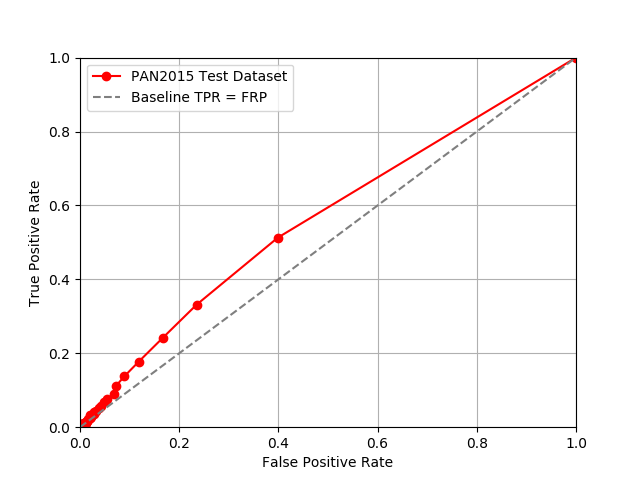
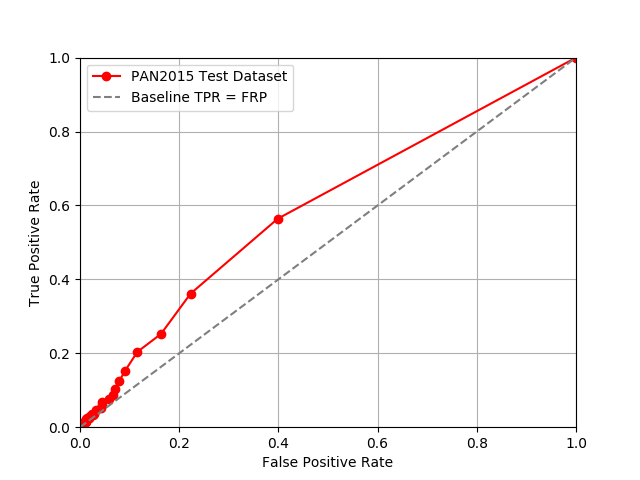
Fix PAN 2015 Delta method results
We had used the 300 most frequent words and not the 200 most frequent
words as we had found worked the best on the training dataset.

diff --git a/report/graph_generation/delta_method_roc.py b/report/graph_generation/delta_method_roc.py
@@ -3,42 +3,38 @@
 import matplotlib.pyplot as plt
 import numpy as np
 
-tprs = np.array([
-    1.0, 0.5128, 0.33159999999999995, 0.2414, 0.17679999999999998, 0.1376,
-    0.1118, 8.88e-2, 7.58e-2, 6.82e-2, 5.74e-2, 5.08e-2, 4.44e-2, 3.98e-2,
-    3.5e-2, 3.18e-2, 2.6600000000000002e-2, 2.3799999999999998e-2, 2.4e-2,
-    2.2799999999999997e-2, 1.92e-2, 1.6e-2, 1.4199999999999999e-2,
-    1.1200000000000002e-2, 1.24e-2, 1.34e-2, 1.08e-2, 1.06e-2,
-    1.1200000000000002e-2, 1.06e-2, 7.6e-3, 9.2e-3, 6.999999999999999e-3,
-    7.2e-3, 6.2e-3, 4.4e-3, 5.8e-3, 5.8e-3, 3.4000000000000002e-3,
-    5.600000000000001e-3, 4.6e-3, 4.2e-3, 4.4e-3, 3.6e-3, 3.2e-3, 4.0e-3,
-    2.4e-3, 1.6e-3, 2.8000000000000004e-3, 2.6e-3, 2.8000000000000004e-3,
-    2.0e-3, 1.8e-3, 3.4000000000000002e-3, 2.4e-3, 2.6e-3, 6.0e-4, 1.2e-3,
-    1.8e-3, 1.2e-3, 1.4000000000000002e-3, 1.8e-3, 2.2e-3,
-    1.4000000000000002e-3, 2.0e-3, 1.8e-3, 1.4000000000000002e-3,
-    1.4000000000000002e-3, 1.4000000000000002e-3, 1.0e-3,
-    1.4000000000000002e-3, 1.4000000000000002e-3, 1.6e-3, 1.0e-3, 1.2e-3,
-    1.4000000000000002e-3, 8.0e-4, 1.6e-3, 6.0e-4, 1.0e-3, 8.0e-4, 4.0e-4,
-    8.0e-4, 1.0e-3, 6.0e-4, 4.0e-4, 2.0e-4, 6.0e-4, 4.0e-4, 4.0e-4, 6.0e-4,
-    4.0e-4, 0.0, 4.0e-4, 1.4000000000000002e-3, 8.0e-4, 6.0e-4, 2.0e-4,
-    4.0e-4, 2.0e-4, 2.0e-4, 0.0])
-fprs = np.array([
-    1.0, 0.39880000000000004, 0.2352, 0.1666, 0.11800000000000001, 8.94e-2,
-    7.26e-2, 6.82e-2, 5.42e-2, 4.8799999999999996e-2, 4.18e-2, 3.9e-2,
-    3.32e-2, 2.78e-2, 2.76e-2, 1.9799999999999998e-2, 2.2799999999999997e-2,
-    2.0e-2, 2.02e-2, 1.68e-2, 1.54e-2, 1.3999999999999999e-2,
-    1.2199999999999999e-2, 1.3000000000000001e-2, 1.28e-2, 1.18e-2, 1.16e-2,
-    8.4e-3, 8.199999999999999e-3, 8.0e-3, 4.8e-3, 5.600000000000001e-3,
-    7.8000000000000005e-3, 6.6e-3, 5.0e-3, 5.600000000000001e-3,
-    3.4000000000000002e-3, 3.2e-3, 4.0e-3, 3.8e-3, 2.4e-3, 4.2e-3, 2.2e-3,
-    3.2e-3, 1.6e-3, 2.4e-3, 2.0e-3, 1.8e-3, 1.6e-3, 1.4000000000000002e-3,
-    8.0e-4, 1.8e-3, 2.0e-4, 1.8e-3, 6.0e-4, 2.0e-4, 1.0e-3, 1.0e-3,
-    1.4000000000000002e-3, 8.0e-4, 2.8000000000000004e-3, 1.8e-3,
-    1.4000000000000002e-3, 8.0e-4, 1.6e-3, 1.0e-3, 1.0e-3, 1.0e-3, 8.0e-4,
-    8.0e-4, 8.0e-4, 1.2e-3, 1.0e-3, 6.0e-4, 4.0e-4, 8.0e-4, 4.0e-4, 6.0e-4,
-    6.0e-4, 4.0e-4, 2.0e-4, 4.0e-4, 0.0, 0.0, 0.0, 1.4000000000000002e-3,
-    4.0e-4, 2.0e-4, 0.0, 0.0, 2.0e-4, 2.0e-4, 4.0e-4, 4.0e-4, 6.0e-4, 0.0,
-    2.0e-4, 2.0e-4, 4.0e-4, 0.0, 0.0, 0.0])
+tprs = np.array([1.0, 0.564, 0.36119999999999997, 0.2522, 0.204, 0.1534,
+    0.125, 0.10400000000000001, 8.74e-2, 7.62e-2, 6.84e-2,
+    6.1200000000000004e-2, 5.2199999999999996e-2, 4.6799999999999994e-2,
+    3.48e-2, 3.18e-2, 3.46e-2, 3.1200000000000002e-2, 2.56e-2,
+    2.3799999999999998e-2, 2.46e-2, 2.16e-2, 2.08e-2, 1.78e-2, 1.48e-2,
+    1.8600000000000002e-2, 1.24e-2, 1.2199999999999999e-2,
+    1.1000000000000001e-2, 1.06e-2, 9.8e-3, 8.4e-3, 1.26e-2, 1.04e-2, 8.0e-3,
+    7.4e-3, 6.999999999999999e-3, 6.6e-3, 6.8000000000000005e-3,
+    6.8000000000000005e-3, 7.4e-3, 6.8000000000000005e-3, 4.8e-3, 5.0e-3,
+    5.0e-3, 4.2e-3, 4.0e-3, 3.4000000000000002e-3, 4.4e-3, 3.8e-3, 3.0e-3,
+    4.6e-3, 2.0e-3, 3.0e-3, 1.4000000000000002e-3, 3.6e-3, 4.2e-3, 2.2e-3,
+    2.4e-3, 2.8000000000000004e-3, 4.6e-3, 3.2e-3, 2.0e-3, 2.4e-3, 3.0e-3,
+    2.4e-3, 3.2e-3, 2.6e-3, 2.6e-3, 2.6e-3, 1.6e-3, 3.6e-3,
+    2.8000000000000004e-3, 1.6e-3, 1.6e-3, 2.2e-3, 1.2e-3, 1.6e-3, 2.0e-3,
+    1.4000000000000002e-3, 2.2e-3, 2.8000000000000004e-3, 1.8e-3, 1.2e-3,
+    1.4000000000000002e-3, 1.4000000000000002e-3, 1.2e-3,
+    2.8000000000000004e-3, 8.0e-4, 1.0e-3, 1.0e-3, 1.0e-3, 1.0e-3, 1.2e-3,
+    8.0e-4, 1.8e-3, 1.2e-3, 6.0e-4, 4.0e-4, 6.0e-4, 6.0e-4])
+fprs = np.array([1.0, 0.3986, 0.2228, 0.1632, 0.1158, 9.119999999999999e-2,
+    7.919999999999999e-2, 6.96e-2, 6.559999999999999e-2, 5.94e-2, 4.52e-2,
+    4.5e-2, 4.14e-2, 3.1400000000000004e-2, 2.88e-2, 2.6000000000000002e-2,
+    2.48e-2, 1.94e-2, 1.84e-2, 1.76e-2, 1.48e-2, 1.26e-2, 1.28e-2,
+    1.1399999999999999e-2, 1.2199999999999999e-2, 1.2199999999999999e-2,
+    6.6e-3, 8.6e-3, 6.0e-3, 7.4e-3, 6.6e-3, 6.0e-3, 5.4e-3, 5.0e-3, 2.6e-3,
+    3.6e-3, 4.8e-3, 4.0e-3, 3.0e-3, 1.6e-3, 2.2e-3, 3.2e-3, 1.6e-3, 2.6e-3,
+    2.2e-3, 2.8000000000000004e-3, 3.0e-3, 1.8e-3, 6.0e-4, 1.2e-3, 2.2e-3,
+    1.6e-3, 8.0e-4, 4.0e-4, 1.0e-3, 6.0e-4, 6.0e-4, 1.2e-3, 8.0e-4, 1.6e-3,
+    1.4000000000000002e-3, 4.0e-4, 8.0e-4, 1.6e-3, 1.8e-3, 6.0e-4, 1.8e-3,
+    8.0e-4, 6.0e-4, 1.0e-3, 8.0e-4, 6.0e-4, 4.0e-4, 2.0e-4, 2.0e-4, 0.0,
+    6.0e-4, 4.0e-4, 2.0e-4, 2.0e-4, 2.0e-4, 4.0e-4, 2.0e-4, 4.0e-4, 4.0e-4,
+    0.0, 0.0, 2.0e-4, 2.0e-4, 0.0, 2.0e-4, 2.0e-4, 2.0e-4, 2.0e-4, 0.0,
+    4.0e-4, 2.0e-4, 4.0e-4, 0.0, 0.0, 0.0])
 
 p = fprs.argsort()
 fprs = fprs[p]

diff --git a/report/discussion.tex b/report/discussion.tex
@@ -12,22 +12,22 @@ the baseline method both on the PAN 2013 dataset and the PAN 2015 dataset.
     \centering
     \begin{tabular}{ll|cc}
         \textbf{Method}           &           & \textbf{PAN 2013} & \textbf{PAN 2015} \\ \hline
-        Delta (BASELINE)          & Score     & 0.62252           & 0.31373           \\
-                                  & \gls{TPR} & 0.52196           & 0.50820           \\
-                                  & \gls{TNR} & 0.71204           & 0.60140           \\
-                                  & Rank      & 12/20             & 11/18             \\ \hline
+        Delta (BASELINE)          & Score     & 0.62252           & 0.34201           \\
+                                  & \gls{TPR} & 0.52196           & 0.54899           \\
+                                  & \gls{TNR} & 0.71204           & 0.60800           \\
+                                  & Rank      & 13/19             & 10/17             \\ \hline
         Random Forest (\gls{UBM}) & Score     & n/a               & 0.38576           \\
                                   & \gls{TPR} & n/a               & 0.63200           \\
                                   & \gls{TNR} & n/a               & 0.57600           \\
-                                  & Rank      & n/a               & 9/18              \\ \hline
+                                  & Rank      & n/a               & 9/17              \\ \hline
         Random Forest (Minus)     & Score     & n/a               & 0.33183           \\
                                   & \gls{TPR} & n/a               & 0.66800           \\
                                   & \gls{TNR} & n/a               & 0.50000           \\
-                                  & Rank      & n/a               & 10/18             \\ \hline
+                                  & Rank      & n/a               & 10/17             \\ \hline
         Extended Delta            & Score     & 0.69909           & 0.40383           \\
                                   & \gls{TPR} & 0.71255           & 0.49760           \\
                                   & \gls{TNR} & 0.68098           & 0.74140           \\
-                                  & Rank      & 10/20             & 8/18              \\ \hline
+                                  & Rank      & 10/19             & 8/17              \\ \hline
         Author Specific SVM       & Score     & 0.77858           & n/a               \\
                                   & \gls{TPR} & 0.71114           & n/a               \\
                                   & \gls{TNR} & 0.83582           & n/a               \\
@@ -242,7 +242,8 @@ same author. On the training data we found that the number of opposing authors
 on the 2013 dataset should be 4 but it seems like the number was to high for the
 test dataset. Even though the results were not significant we still obtained a
 better result than 8/19 competitors. On the PAN 2015 dataset we obtained a final
-score of % TODO: When results are fixed to using 200 words instead of 300.
+score of 0.34201 an \gls{TPR} of 0.54899 and a \gls{TNR} of 0.60800. Again the
+\gls{TNR} is far better than the \gls{TPR}.
 
 The Generalized Random Forest were off to a bad start start, as the paper it
 was based on \cite{pacheco2015} only got 6'th place in the PAN 2015 authorship

diff --git a/report/appendix.tex b/report/appendix.tex
@@ -35,23 +35,23 @@ The results of the PAN 2015 Authorship verification task, on English texts.
 \begin{center}
 \begin{tabular}{|c|c|c|c|}
 \hline
-\textbf{Author}          & \textbf{Final Score} & \textbf{c@1} & \textbf{AUC} \\ \hline
-Douglas Bagnall. & 0.61 & 0.76 & 0.81 \\ \hline
-Daniel Castro et al. & 0.52041 & 0.694 & 0.74987\\ \hline
-Josue Gutierrez1 et al. & 0.51 & 0.69 & 0.74 \\ \hline
-Mirco Kocher et al. & 0.5082 & 0.6890 & 0.7375 \\ \hline
-Erwan Moreau et al. & 0.453 & . & . \\ \hline
-María Leonor Pacheco et al. & 0.43811 & 0.57429 & 0.76287 \\ \hline
-Manuela Hürlimann et al. & 0.41 & . & . \\ \hline
-Juan Pablo Posadas Durán et al. & 0.39999 & 0.58800 & 0.68025 \\ \hline
-Promita Maitra et al. & 0.34749  & 0.57732 & 0.60174 \\ \hline
-Alberto Bartoli et al. & 0.323 & 0.56 & 0.578 \\ \hline
-Helena Gómez Adorno et al. & 0.2809 & 0.53 & 0.53 \\ \hline
-Stanimir Nikolov et al. & 0.2582 & 0.5243 & 0.4926 \\ \hline
-Julián Solórzano et al. & 0.258 & 0.5 & 0.517 \\ \hline
-Oliver Pimas et al. & 0.2565  & 0.506 & 0.50692 \\ \hline
-Yunita Sari et al. & 0.20055 & 0.5 & 0.4011 \\ \hline
-Oren Halvani et al. & . & 0.675 & . \\ \hline
-Seifeddine Mechtik et al. & .  & 0.59 & . \\ \hline
+\textbf{Author}                 & \textbf{Final Score} & \textbf{c@1} & \textbf{AUC} \\ \hline
+Douglas Bagnall.                & 0.61                 & 0.76         & 0.81         \\ \hline
+Daniel Castro et al.            & 0.52041              & 0.694        & 0.74987      \\ \hline
+Josue Gutierrez1 et al.         & 0.51                 & 0.69         & 0.74         \\ \hline
+Mirco Kocher et al.             & 0.5082               & 0.6890       & 0.7375       \\ \hline
+Erwan Moreau et al.             & 0.453                & .            & .            \\ \hline
+María Leonor Pacheco et al.     & 0.43811              & 0.57429      & 0.76287      \\ \hline
+Manuela Hürlimann et al.        & 0.41                 & .            & .            \\ \hline
+Juan Pablo Posadas Durán et al. & 0.39999              & 0.58800      & 0.68025      \\ \hline
+Promita Maitra et al.           & 0.34749              & 0.57732      & 0.60174      \\ \hline
+Alberto Bartoli et al.          & 0.323                & 0.56         & 0.578        \\ \hline
+Helena Gómez Adorno et al.      & 0.2809               & 0.53         & 0.53         \\ \hline
+Stanimir Nikolov et al.         & 0.2582               & 0.5243       & 0.4926       \\ \hline
+Julián Solórzano et al.         & 0.258                & 0.5          & 0.517        \\ \hline
+Oliver Pimas et al.             & 0.2565               & 0.506        & 0.50692      \\ \hline
+Yunita Sari et al.              & 0.20055              & 0.5          & 0.4011       \\ \hline
+Oren Halvani et al.             & .                    & 0.675        & .            \\ \hline
+Seifeddine Mechtik et al.       & .                    & 0.59         & .            \\ \hline
 \end{tabular}
 \end{center}

diff --git a/report/results.tex b/report/results.tex
@@ -70,9 +70,9 @@ is shown in Figure \ref{fig:delta_method_roc}. It is created by computing the
     \begin{tabular}{c|ccc}
         & \textbf{PAN 2013 Dataset 1} & \textbf{PAN 2013 Dataset 2} & \textbf{PAN 2015 Dataset}\\
         \hline
-        \textbf{Accuracy}  & 0.63191 & 0.61314 & 0.55480 \\
-        \textbf{\gls{TPR}} & 0.51900 & 0.52492 & 0.50820 \\
-        \textbf{\gls{TNR}} & 0.72408 & 0.70000 & 0.60140
+        \textbf{Accuracy}  & 0.63191 & 0.61314 & 0.57850 \\
+        \textbf{\gls{TPR}} & 0.51900 & 0.52492 & 0.54899 \\
+        \textbf{\gls{TNR}} & 0.72408 & 0.70000 & 0.60800
     \end{tabular}
     \caption{Result of running the delta method on two test sets included in PAN
     2013 and single test set included in PAN 2015 with 4 opposing authors for
@@ -80,8 +80,9 @@ is shown in Figure \ref{fig:delta_method_roc}. It is created by computing the
     \label{tab:delta_method_final_results}
 \end{table}
 
-The \gls{AUROC} for the delta method on the 2015 data was 0.56378. Resulting
-in a final score of $0.55480 \cdot 0.56550 = 0.31373$ for the PAN 2015 set.
+
+The \gls{AUROC} for the Delta Method on the 2015 data was 0.59121. Resulting
+in a final score of $0.57850 \cdot 0.59121 = 0.34201$ for the PAN 2015 set.
 
 \begin{figure}
     \centering
